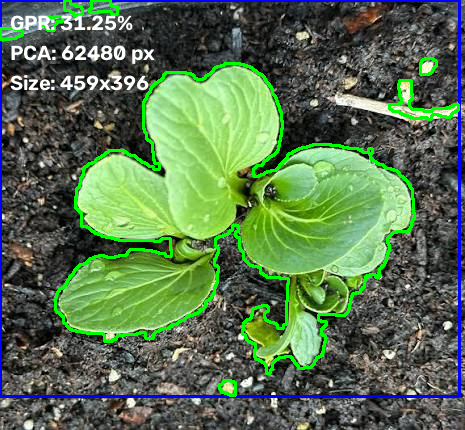
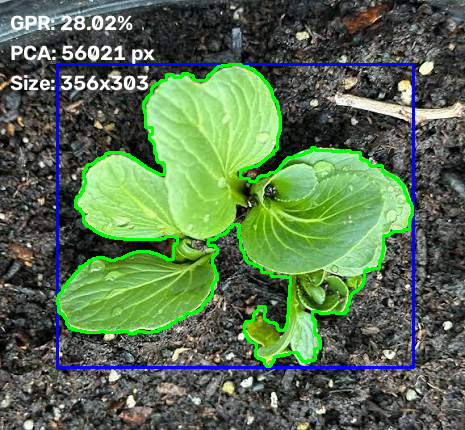
added and implemented an edge ready headless compatible python and opencv comouter vision pipeline for automated daily gpr and geometrical feature extraction

diff --git a/GEMINI.md b/GEMINI.md
@@ -33,9 +33,9 @@ At the end of every work session, the user will trigger a "Session Wrap-Up." Gem
 
 ## 6. Current Progress & Next Steps (Update After Every Session)
 
-* **Current Status:** Re-proposal successful. Shifted away from IoT/App focus to Computer Vision and Statistical Modeling. Panel revisions have been fully integrated into the LaTeX manuscript.
-* **Latest Achievement:** Created the new polynomial regression structure, updated the hardware schematic (dropping the multiplexer), and mapped out the verifiable deliverables.
+* **Current Status:** Successfully implemented and tested an edge-ready, headless-compatible Python/OpenCV computer vision pipeline in `vision/vision.py` for automated daily GPR and geometrical feature extraction.
+* **Latest Achievement:** Refactored CV script to include contour-based moss/soil algae filtering, parameterized ROI cropping, automated CSV metrics logging (`pechay_growth_log.csv`), and a comparative Excess Green Index (ExG) mode. Tested both HSV and ExG modes successfully on `pechay_test.jpeg`.
 * **Immediate Next Actions:**
-    1.  *Administrative:* Secure signed Endorsement Form from Engr. Macapagal and Engr. Saavedra with the new title.
-    2.  *Logistics:* Finalize the greenhouse space allocation with Ma'am Linda/PPFO.
-    3.  *Software:* Begin writing and testing the Python/OpenCV script for HSV Green Pixel Ratio (GPR) extraction on a laptop.
+    1.  *Administrative:* Secure signed Endorsement Forms for the revised thesis title from Engr. Macapagal and Engr. Saavedra.
+    2.  *Logistics:* Coordinate with Ma'am Linda/PPFO to finalize greenhouse space allocation and pot setup.
+    3.  *Edge Setup:* Flash the Raspberry Pi Zero 2W, set up the camera and virtual environment, and configure the noon cron job to execute the refactored script.
